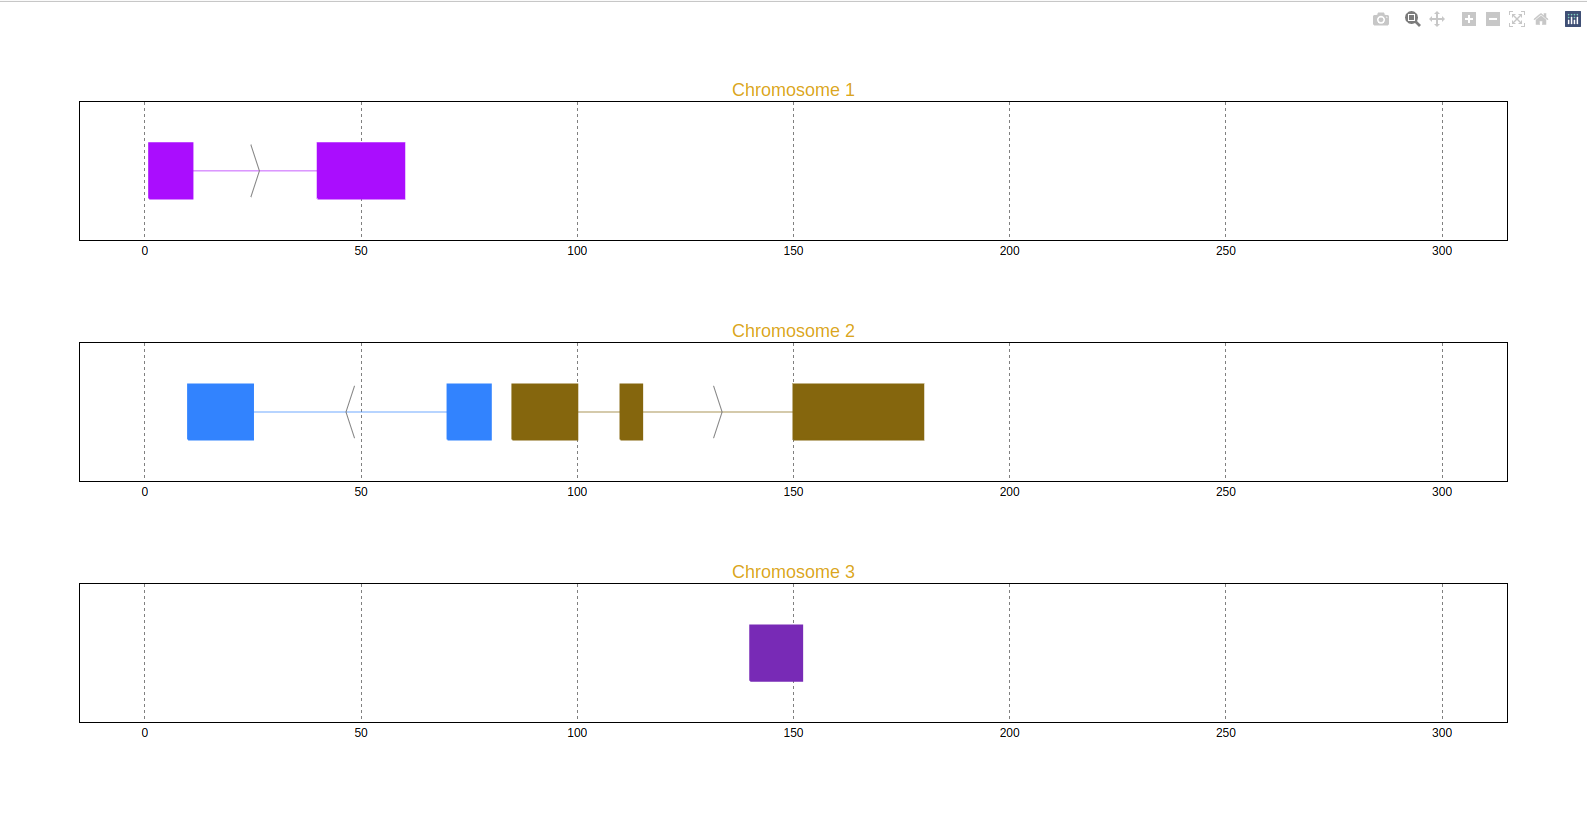
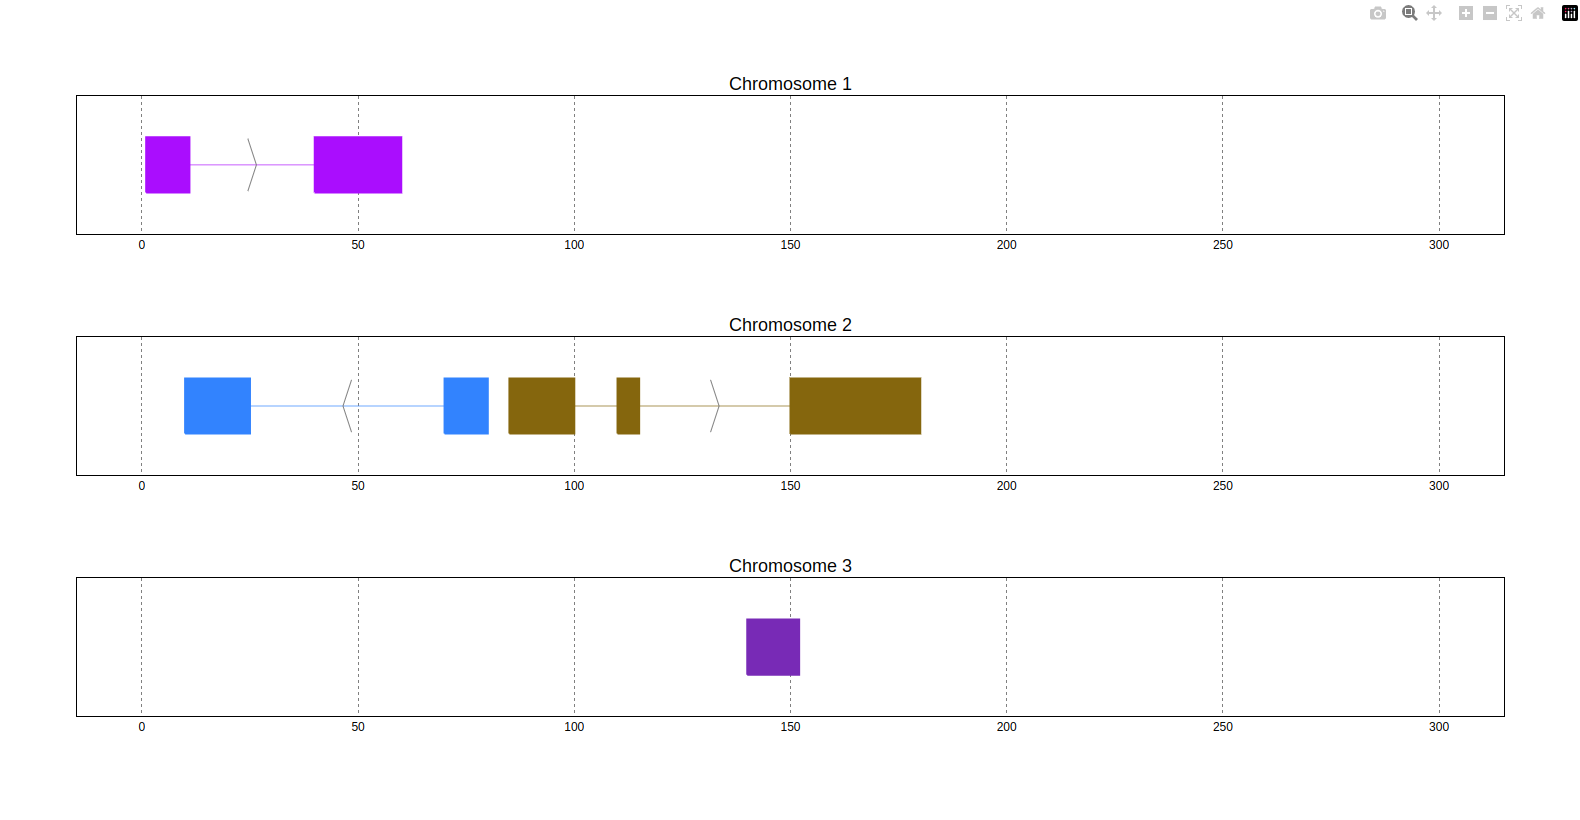
Updated README.

diff --git a/README.md b/README.md
@@ -5,9 +5,9 @@ Gene visualization package for dataframe objects generated with [PyRanges](https
 
 
 ## Overview
-The goal is getting a plot displaying a series of genes contained in a PyRanges 
-object. It displays the genes' intron-exon structure in its corresponding 
-chromosome, enabling easy visualization of your PyRanges data.
+The goal is getting a plot displaying a series of genes, transcripts, or any kind
+of ranges contained in a PyRanges object. It displays the genes' intron-exon structure 
+in its corresponding chromosome, enabling easy visualization of your PyRanges data.
 
 To obtain the plot there are some features to be defined by the user, one is the 
 **engine** since it can be based on Matplotlib or Plotly, the other is the name 
@@ -256,7 +256,7 @@ prp.plot(
 
 
 
-
+#### :dizzy: Show transcript structure
 
 Another interesting feature is showing the transcript structure, so the exons appear as 
 wider rectangles than UTR regions. For that the proper information should be stored in the 
@@ -271,7 +271,7 @@ pp = pr.from_dict({
 	"transcript_id":["t1", "t1", "t2", "t2", "t3", "t3", "t3", "t4", "t5", "t5", "t5", "t5", "t6", "t6"],
 	"feature1": ["1", "1", "1", "1", "1", "2", "2", "2", "2", "2", "2", "2", "2", "2"],
 	"feature2": ["A", "A", "B", "B", "C", "C", "C", "D", "E", "E", "E", "E", "F", "F"],
-	"Feature": ["exon", "exon", "CDS", "CDS", "CDS", "CDS", "CDS", "exon", "exon", "CDS", "CDS", "exon", None, None]
+	"Feature": ["exon", "exon", "CDS", "CDS", "CDS", "CDS", "CDS", "exon", "exon", "CDS", "CDS", "exon", "CDS", "CDS"]
     
 })
 
@@ -281,47 +281,82 @@ prp.plot(pp, transcript_str = True)
     <img src="https://github.com/emunozdc/pyranges_plot/raw/main/images/prplot_ex12.png">
 </p>
 
+#### :dizzy: Reduce intron size
 
-### :art: Appearance customizations
+In order to facilitate visualization, pyranges_plot offers the option to reduce the introns 
+which exceed a given threshold size. For that the `introns_off` parameter should be used. 
+Additionally, the threshold can be defined by the user through kargs or setting the default
+as explained in the next section, using `shrink_threshold`, when a float is provided as 
+shrink_threshold it will be interpreted as a fraction of the original coordinate range, 
+while when an int is given it will be interpreted as number of base pairs.
+
+```python
+ppp = pr.from_dict({'Chromosome': ['1']*10 + ['2']*10,
+ 'Strand': ['+','+','+','+','-','-','-','-','+','+'] + ["+", "+", "+", "+", "-", "-", "-", "-", "+", "+"],
+ 'Start': [90,61,104,228,9,142,52,149,218,151] + [5, 27, 37, 47, 1, 7, 42, 37, 60, 80],
+ 'End': [92,64,113,229,12,147,57,155,224,153] + [8, 32, 40, 50, 5, 10, 46, 40, 70, 90],
+ 'transcript_id': ['t1','t1','t1','t1','t2','t2','t2','t2','t3','t3'] + ["t4", "t4", "t4", "t4", "t5", "t5", "t5", "t5", "t6", "t6"],
+ 'Feature': ["exon"]*20
+                    }
+                   )
+
+prp.plot(ppp, introns_off=True)
+prp.plot(ppp, introns_off=True, shrink_threshold=0.2)
+```
+<p align="center">
+    <img src="https://github.com/emunozdc/pyranges_plot/raw/main/images/prplot_ex13.png">
+</p>
+<p align="center">
+    <img src="https://github.com/emunozdc/pyranges_plot/raw/main/images/prplot_ex14.png">
+</p>
+
+
+### :ribbon: Appearance customizations
 
 There are some features of the plot appearance which can also be customized, like the 
-background, plot border or titles. To see and modify these values the `print_default` and 
-`set_default` functions should be used.
+background, plot border or titles. To check these customizable features and its default 
+values, the `print_default` function should be used. These values con be modified for all 
+the following plots through the `set_default` function; However, for a single plot, these 
+features can be given as kargs to the `plot` function (see `shrink_threshold` in the example 
+above).
+
 
 ```python
 # Check the default values
 prp.print_default()
 ```
 ```
-+------------------+-----------+-------------+--------------------------------------------------------------+
-|     Feature      |   Value   | Is modified |                         Description                          |
-+------------------+-----------+-------------+--------------------------------------------------------------+
-|  tag_background  |   grey    |             | Background color of the tooltip annotation for the gene in   |
-|                  |           |             | Matplotlib.                                                  |
-| plot_background  |   white   |             | Background color for the chromosomes plots.                  |
-|   plot_border    |   black   |             | Color of the line defining the chromosome plots.             |
-|    title_size    |    18     |             | Size of the plots' titles.                                   |
-|   title_color    | goldenrod |             | Color of the plots' titles.                                  |
-|    exon_width    |    0.4    |             | Height of the exon rectangle in the plot.                    |
-| shrink_threshold |   0.05    |             | Minimum lenght of an intron in order for it to be shrinked   |
-|                  |           |             | while using the introns_off feature. When threshold is       |
-|                  |           |             | float, it represents the percentage of the plot space,       |
-|                  |           |             | while an int threshold represents number of position or      |
-|                  |           |             | base pairs.                                                  |
-|   plotly_port    |   8050    |             | Port to run plotly app.                                      |
-| arrow_line_width |     1     |             | Line width of the arrow lines (for stranded PyRanges).       |
-|   arrow_color    |   grey    |             | Direction arrow color (for stranded PyRanges).               |
-|  arrow_size_min  |   0.002   |             | Minimum size of the arrow to plot direction in exons if      |
-|                  |           |             | necessary. Provided as a float correspondig to the plot      |
-|                  |           |             | fraction or percentage.                                      |
-| intron_threshold |   0.04    |             | Minimum size of the intron to plot direction in it.          |
-|                  |           |             | Provided as a float correspondig to the plot fraction or     |
-|                  |           |             | percentage.                                                  |
-+------------------+-----------+-------------+--------------------------------------------------------------+
++------------------------+-------+---------+--------------------------------------------------------------+
+|        Feature         | Value | Edited? |                         Description                          |
++------------------------+-------+---------+--------------------------------------------------------------+
+|     tag_background     | grey  |         | Background color of the tooltip annotation for the gene in   |
+|                        |       |         | Matplotlib.                                                  |
+|    plot_background     | white |         | Background color for the chromosomes plots.                  |
+|      plot_border       | black |         | Color of the line defining the chromosome plots.             |
+|       title_size       |  18   |         | Size of the plots' titles.                                   |
+|      title_color       | black |         | Color of the plots' titles.                                  |
++------------------------+-------+---------+--------------------------------------------------------------+
+|       exon_width       |  0.4  |         | Height of the exon rectangle in the plot.                    |
+|    arrow_line_width    |   1   |         | Line width of the arrow lines (for stranded PyRanges).       |
+|      arrow_color       | grey  |         | Direction arrow color (for stranded PyRanges).               |
+|       arrow_size       | 0.006 |         | Fraction or percentage of the plot occupied by a direction   |
+|                        |       |         | arrow.                                                       |
+| arrow_intron_threshold | 0.04  |         | Minimum size of the intron to plot a direction arrow in it.  |
+|                        |       |         | Provided as a float correspondig to the plot fraction or     |
+|                        |       |         | percentage.                                                  |
++------------------------+-------+---------+--------------------------------------------------------------+
+|    shrink_threshold    | 0.05  |         | Minimum lenght of an intron in order for it to be shrinked   |
+|                        |       |         | while using the introns_off feature. When threshold is       |
+|                        |       |         | float, it represents the percentage of the plot space,       |
+|                        |       |         | while an int threshold represents number of positions or     |
+|                        |       |         | base pairs.                                                  |
+|      plotly_port       | 8050  |         | Port to run plotly app.                                      |
++------------------------+-------+---------+--------------------------------------------------------------+
+
 
 ```
 
-Once you found the feature you would like to customize, it can be modified.
+Once you found the feature you would like to customize, it can be modified:
 
 ```python
 
@@ -334,7 +369,7 @@ prp.set_default('title_color', 'magenta')
 prp.plot(p)
 ```
 <p align="center">
-    <img src="https://github.com/emunozdc/pyranges_plot/raw/main/images/prplot_ex13.png">
+    <img src="https://github.com/emunozdc/pyranges_plot/raw/main/images/prplot_ex15.png">
 </p>
 
 
@@ -345,31 +380,32 @@ Now the modified values will be marked when checking the default values:
 prp.print_default()
 ```
 ```
-+------------------+--------------------+-------------+--------------------------------------------------------------+
-|     Feature      |       Value        | Is modified |                         Description                          |
-+------------------+--------------------+-------------+--------------------------------------------------------------+
-|  tag_background  |        grey        |             | Background color of the tooltip annotation for the gene in   |
-|                  |                    |             | Matplotlib.                                                  |
-| plot_background  | rgb(173, 216, 230) |      *      | Background color for the chromosomes plots.                  |
-|   plot_border    |      #808080       |      *      | Color of the line defining the chromosome plots.             |
-|    title_size    |         18         |             | Size of the plots' titles.                                   |
-|   title_color    |      magenta       |      *      | Color of the plots' titles.                                  |
-|    exon_width    |        0.4         |             | Height of the exon rectangle in the plot.                    |
-| shrink_threshold |        0.05        |             | Minimum lenght of an intron in order for it to be shrinked   |
-|                  |                    |             | while using the introns_off feature. When threshold is       |
-|                  |                    |             | float, it represents the percentage of the plot space,       |
-|                  |                    |             | while an int threshold represents number of position or      |
-|                  |                    |             | base pairs.                                                  |
-|   plotly_port    |        8050        |             | Port to run plotly app.                                      |
-| arrow_line_width |         1          |             | Line width of the arrow lines (for stranded PyRanges).       |
-|   arrow_color    |        grey        |             | Direction arrow color (for stranded PyRanges).               |
-|  arrow_size_min  |       0.002        |             | Minimum size of the arrow to plot direction in exons if      |
-|                  |                    |             | necessary. Provided as a float correspondig to the plot      |
-|                  |                    |             | fraction or percentage.                                      |
-| intron_threshold |        0.04        |             | Minimum size of the intron to plot direction in it.          |
-|                  |                    |             | Provided as a float correspondig to the plot fraction or     |
-|                  |                    |             | percentage.                                                  |
-+------------------+--------------------+-------------+--------------------------------------------------------------+
++------------------------+--------------------+---------+--------------------------------------------------------------+
+|        Feature         |       Value        | Edited? |                         Description                          |
++------------------------+--------------------+---------+--------------------------------------------------------------+
+|     tag_background     |        grey        |         | Background color of the tooltip annotation for the gene in   |
+|                        |                    |         | Matplotlib.                                                  |
+|    plot_background     | rgb(173, 216, 230) |    *    | Background color for the chromosomes plots.                  |
+|      plot_border       |      #808080       |    *    | Color of the line defining the chromosome plots.             |
+|       title_size       |         18         |         | Size of the plots' titles.                                   |
+|      title_color       |      magenta       |    *    | Color of the plots' titles.                                  |
++------------------------+--------------------+---------+--------------------------------------------------------------+
+|       exon_width       |        0.4         |         | Height of the exon rectangle in the plot.                    |
+|    arrow_line_width    |         1          |         | Line width of the arrow lines (for stranded PyRanges).       |
+|      arrow_color       |        grey        |         | Direction arrow color (for stranded PyRanges).               |
+|       arrow_size       |       0.006        |         | Fraction or percentage of the plot occupied by a direction   |
+|                        |                    |         | arrow.                                                       |
+| arrow_intron_threshold |        0.04        |         | Minimum size of the intron to plot a direction arrow in it.  |
+|                        |                    |         | Provided as a float correspondig to the plot fraction or     |
+|                        |                    |         | percentage.                                                  |
++------------------------+--------------------+---------+--------------------------------------------------------------+
+|    shrink_threshold    |        0.05        |         | Minimum lenght of an intron in order for it to be shrinked   |
+|                        |                    |         | while using the introns_off feature. When threshold is       |
+|                        |                    |         | float, it represents the percentage of the plot space,       |
+|                        |                    |         | while an int threshold represents number of positions or     |
+|                        |                    |         | base pairs.                                                  |
+|      plotly_port       |        8050        |         | Port to run plotly app.                                      |
++------------------------+--------------------+---------+--------------------------------------------------------------+
 
 ```
 
@@ -410,7 +446,6 @@ prp.plot(p_subset, colormap='Set3', to_file='t3_t4_plot.png')
 
 
 ## Coming soon
-* Option to turn off introns.
 * Accept different PyRanges objects or DataFrames as input for the same plot.
 * Bases will be displayed along coordinates.
 * Colorblind friendly.
